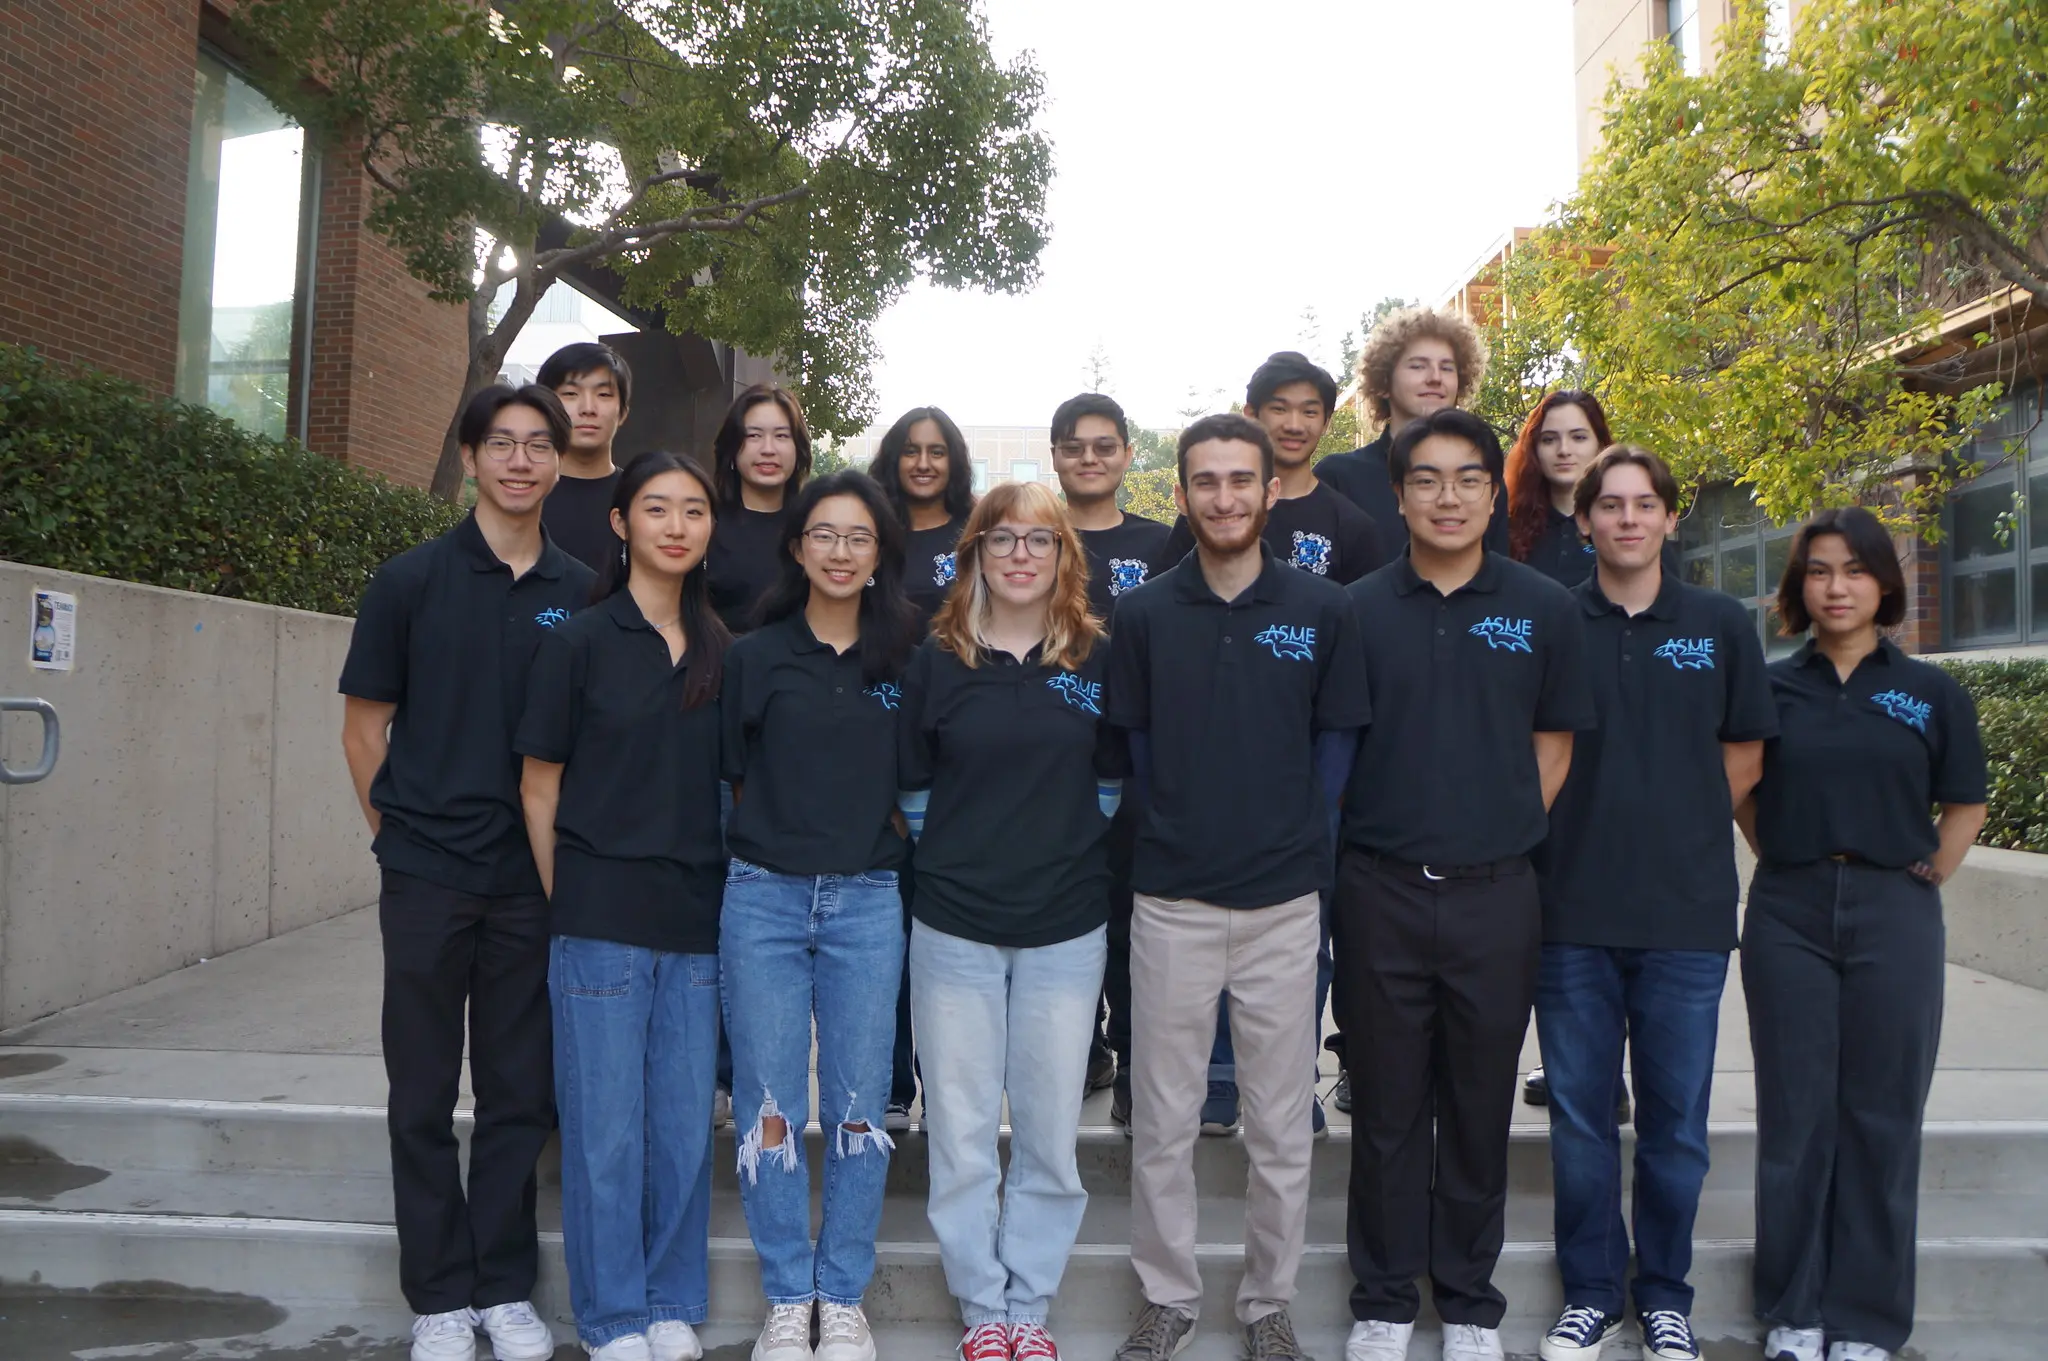
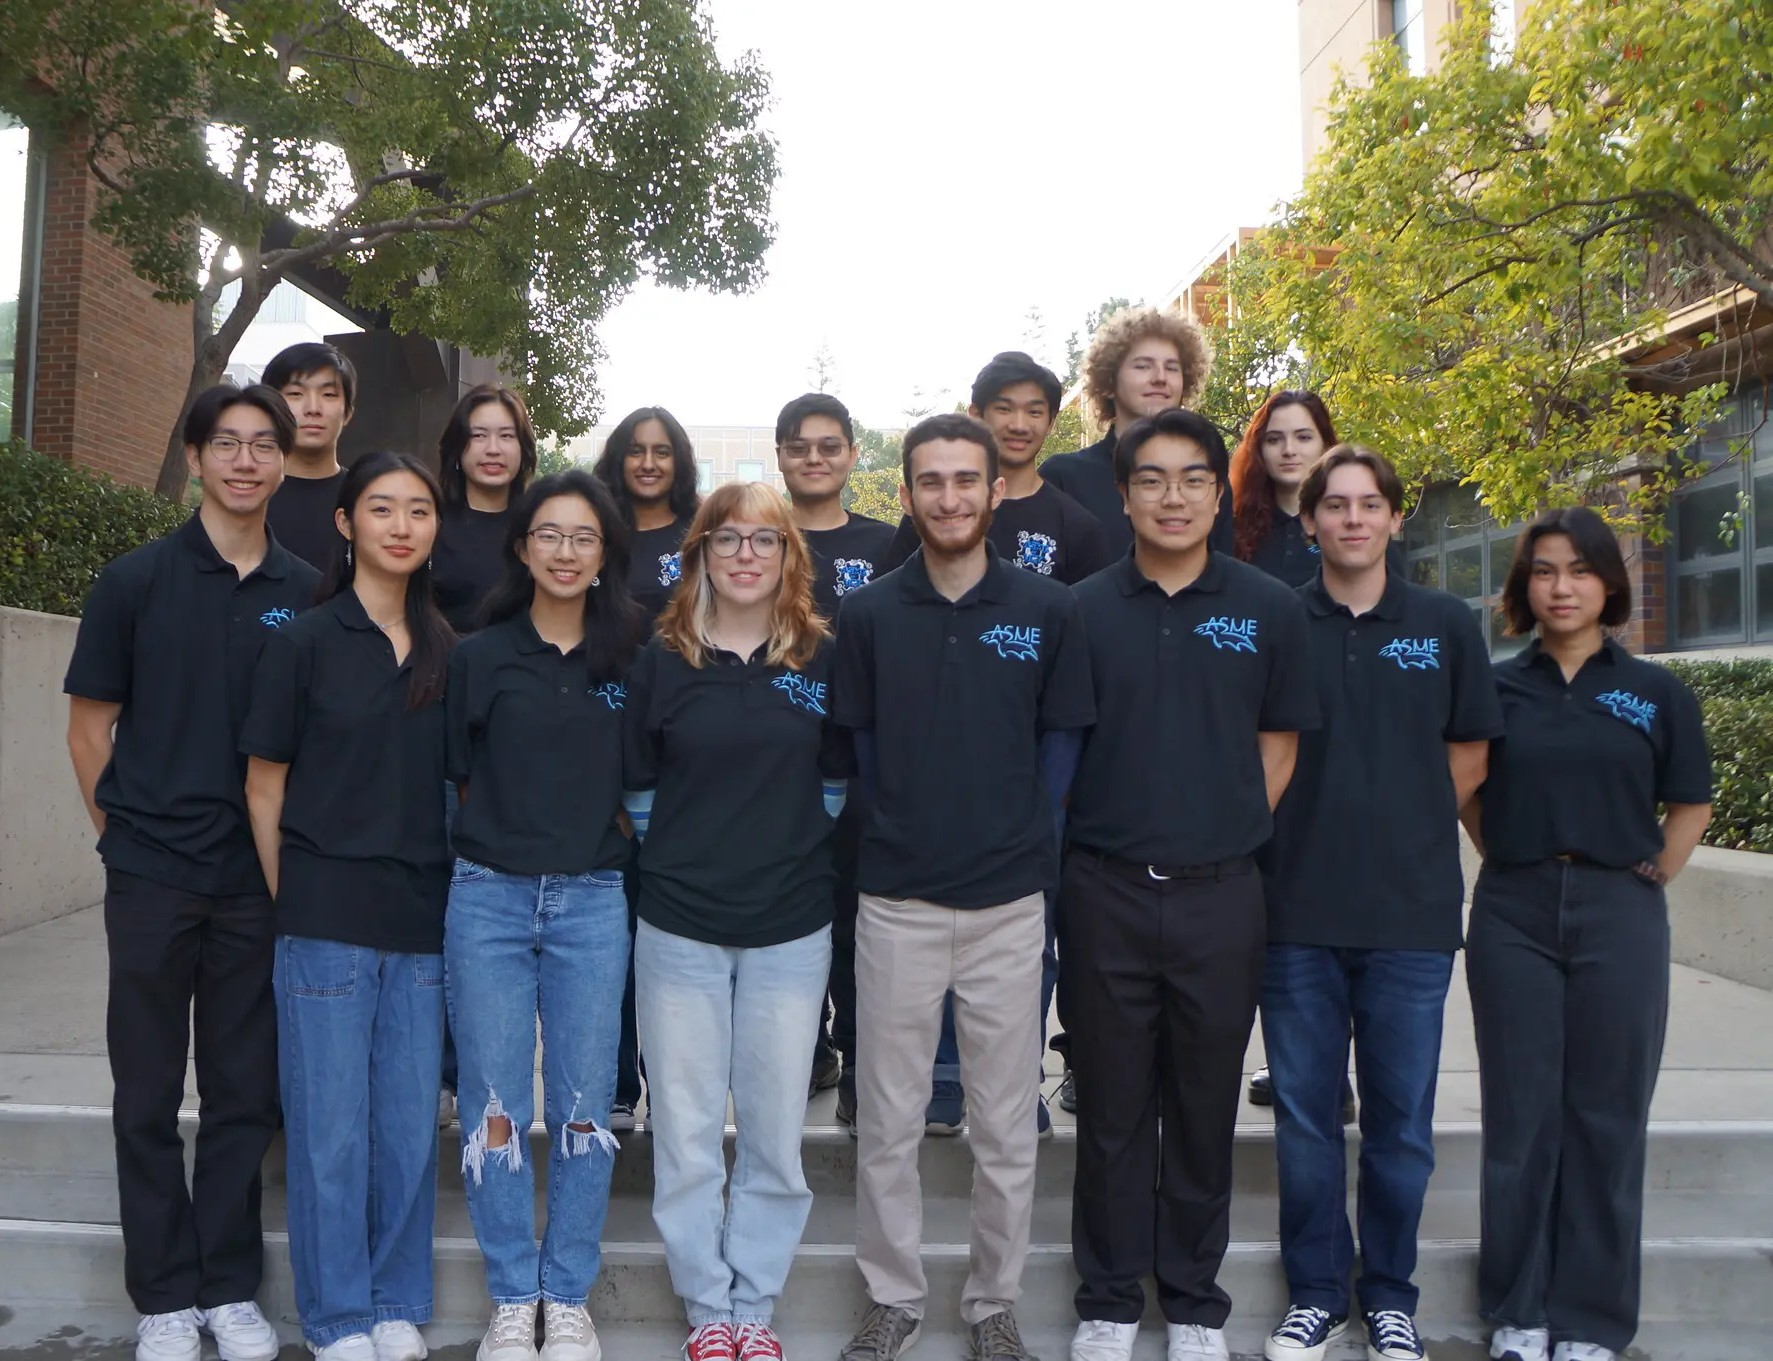
QOL changes

diff --git a/asme-website/src/components/Navbar.tsx b/asme-website/src/components/Navbar.tsx
@@ -17,8 +17,8 @@ function Navbar() {
                 </NavigationMenuLink>
               </NavigationMenuItem>
 
-              {/* Dynamic Links (Events, Yearbook, Links) */}
-              {["Events", "Sponsors", "Links", "Board"].map((label) => (
+              {/* Dynamic Links (Posts, Yearbook, Links) */}
+              {["Posts", "Sponsors", "Links", "Board"].map((label) => (
                 <NavigationMenuItem key={label}>
                   <NavigationMenuLink 
                     asChild 
@@ -31,27 +31,14 @@ function Navbar() {
                 </NavigationMenuItem>
               ))}
 
-            {/* Programs Link w/ dropdown */}
+
+            {/* Flagship Link w/ dropdown */}
               <NavigationMenuItem>
                 <NavigationMenuTrigger className="justify-end ml-auto bg-transparent hover:bg-gray-200 data-[state=open]:bg-gray-100 rounded-full font-nunito text-sm text-gray-800 transition-colors">
-                  Programs
+                  Flagship
                 </NavigationMenuTrigger>
                 <NavigationMenuContent className="">
                   <ul className="grid w-[180px] gap-1 p-2 bg-white rounded-xl ">
-                    <li>
-                      <NavigationMenuLink asChild className = "">
-                        <Link to="/peterworks" className="block p-2 text-lg hover:bg-gray-200 rounded-md transition-colors text-gray-700 ">
-                          Peterworks
-                        </Link>
-                      </NavigationMenuLink>
-                    </li>
-                    <li>
-                      <NavigationMenuLink asChild className = "">
-                        <Link to="/minimechs" className="block p-2 text-lg hover:bg-gray-200 rounded-md transition-colors text-gray-700 ">
-                          MiniMechs
-                        </Link>
-                      </NavigationMenuLink>
-                    </li>
                     <li>
                       <NavigationMenuLink asChild className = "">
                         <Link to="/network" className="block p-2 text-lg hover:bg-gray-200 rounded-md transition-colors text-gray-700 ">
@@ -70,6 +57,30 @@ function Navbar() {
                       <NavigationMenuLink asChild className = "">
                         <Link to="/SDNN" className="block p-2 text-lg hover:bg-gray-200 rounded-md transition-colors text-gray-700 ">
                           SDNN
+                        </Link>
+                      </NavigationMenuLink>
+                    </li>
+                  </ul>
+                </NavigationMenuContent>
+              </NavigationMenuItem>
+            {/* Programs Link w/ dropdown */}
+              <NavigationMenuItem>
+                <NavigationMenuTrigger className="justify-end ml-auto bg-transparent hover:bg-gray-200 data-[state=open]:bg-gray-100 rounded-full font-nunito text-sm text-gray-800 transition-colors">
+                  Programs
+                </NavigationMenuTrigger>
+                <NavigationMenuContent className="">
+                  <ul className="grid w-[180px] gap-1 p-2 bg-white rounded-xl ">
+                    <li>
+                      <NavigationMenuLink asChild className = "">
+                        <Link to="/peterworks" className="block p-2 text-lg hover:bg-gray-200 rounded-md transition-colors text-gray-700 ">
+                          Peterworks
+                        </Link>
+                      </NavigationMenuLink>
+                    </li>
+                    <li>
+                      <NavigationMenuLink asChild className = "">
+                        <Link to="/minimechs" className="block p-2 text-lg hover:bg-gray-200 rounded-md transition-colors text-gray-700 ">
+                          MiniMechs
                         </Link>
                       </NavigationMenuLink>
                     </li>

diff --git a/asme-website/src/components/MobileNavbar.tsx b/asme-website/src/components/MobileNavbar.tsx
@@ -69,7 +69,7 @@ function MobileNavbar() {
                         <Link to="/" onClick={() => setIsOpen(false)} className="hover:text-gray-500 block pb-4">Home</Link>
                     </li>
                     <li className={`transform transition-all duration-500 delay-300 ${isOpen ? "translate-y-0 opacity-100" : "translate-y-4 opacity-0"}`}>
-                        <Link to="/events" onClick={() => setIsOpen(false)} className="hover:text-gray-500 block pb-4">Events</Link>
+                        <Link to="/posts" onClick={() => setIsOpen(false)} className="hover:text-gray-500 block pb-4">Posts</Link>
                     </li>
                      <li className={`transform transition-all duration-500 delay-[400ms] ${isOpen ? "translate-y-0 opacity-100" : "translate-y-4 opacity-0"}`}>
                         <Link to="/sponsors" onClick={() => setIsOpen(false)} className="hover:text-gray-500 block pb-4">Sponsors</Link>
@@ -80,12 +80,6 @@ function MobileNavbar() {
                     <li className={`transform transition-all duration-500 delay-[250ms] ${isOpen ? "translate-y-0 opacity-100" : "translate-y-4 opacity-0"}`}>
                         <Link to="/board" onClick={() => setIsOpen(false)} className="hover:text-gray-500 block pb-4">Board</Link>
                     </li>
-                    <li className={`transform transition-all duration-500 delay-[400ms] ${isOpen ? "translate-y-0 opacity-100" : "translate-y-4 opacity-0"}`}>
-                        <Link to="/minimechs" onClick={() => setIsOpen(false)} className="hover:text-gray-500 block pb-4">MiniMechs</Link>
-                    </li>
-                    <li className={`transform transition-all duration-500 delay-200 ${isOpen ? "translate-y-0 opacity-100" : "translate-y-4 opacity-0"}`}>
-                        <Link to="/peterworks" onClick={() => setIsOpen(false)} className="hover:text-gray-500 block pb-4">Peterworks</Link>
-                    </li>
                     <li className={`transform transition-all duration-500 delay-200 ${isOpen ? "translate-y-0 opacity-100" : "translate-y-4 opacity-0"}`}>
                         <Link to="/Network" onClick={() => setIsOpen(false)} className="hover:text-gray-500 block pb-4">Network With ASME</Link>
                     </li>
@@ -94,6 +88,12 @@ function MobileNavbar() {
                     </li>
                     <li className={`transform transition-all duration-500 delay-200 ${isOpen ? "translate-y-0 opacity-100" : "translate-y-4 opacity-0"}`}>
                         <Link to="/SDNN" onClick={() => setIsOpen(false)} className="hover:text-gray-500 block pb-4">SDNN</Link>
+                    </li>
+                    <li className={`transform transition-all duration-500 delay-[400ms] ${isOpen ? "translate-y-0 opacity-100" : "translate-y-4 opacity-0"}`}>
+                        <Link to="/minimechs" onClick={() => setIsOpen(false)} className="hover:text-gray-500 block pb-4">MiniMechs</Link>
+                    </li>
+                    <li className={`transform transition-all duration-500 delay-200 ${isOpen ? "translate-y-0 opacity-100" : "translate-y-4 opacity-0"}`}>
+                        <Link to="/peterworks" onClick={() => setIsOpen(false)} className="hover:text-gray-500 block pb-4">Peterworks</Link>
                     </li>
                     <li className={`transform transition-all duration-500 delay-[350ms] ${isOpen ? "translate-y-0 opacity-100" : "translate-y-4 opacity-0"}`}>
                         <Link to="/yearbook" onClick={() => setIsOpen(false)} className="hover:text-gray-500 block pb-4">Yearbook</Link>

diff --git a/asme-website/src/App.tsx b/asme-website/src/App.tsx
@@ -5,7 +5,7 @@ import Links from './pages/Links';
 import asmegif from '@/assets/site/loading.gif';
 import Board from './pages/Board';
 import Peterworks from './pages/Peterworks';
-import Events from './pages/Events';
+import Posts from './pages/Posts';
 import Yearbook from './pages/Yearbook';
 import YearbookSection from './pages/YearbookSection';
 import Sponsors from './pages/Sponsors';
@@ -121,7 +121,7 @@ export default function App() {
             <Route path="/" element={<FrontPage />} />
             <Route path="/links" element={<Links />} />
             <Route path="/board" element={<Board/> } />
-            <Route path="/events" element={<Events />} />
+            <Route path="/posts" element={<Posts />} />
             <Route path="/yearbook" element={<Yearbook />} />
             <Route path="/yearbook/:section" element={<YearbookSection />} />
             <Route path="/peterworks" element={<Peterworks />} />

diff --git a/asme-website/src/model/BoardMembers2026_2027.ts b/asme-website/src/model/BoardMembers2026_2027.ts
@@ -91,7 +91,7 @@ const boardCommittees2026_2027: BoardCommittee[] = [
     members: [
       { name: "Katie Schmitz", role: "Student Outreach Director ", image: placeholderHeadshot, linkedin: "https://www.linkedin.com/in/katie-schmitz-893308331/" },
       { name: "Colin Tang Khoang", role: "Committee Member", image: placeholderHeadshot, linkedin: "https://www.linkedin.com/in/colin-khoang-10b933366/" },
-      { name: "Sarah McClelland", role: "Committee Member", image: placeholderHeadshot, linkedin: "https://www.linkedin.com/in/sarahrmcclelland/" },
+      { name: "Sarah McClelIand", role: "Committee Member", image: placeholderHeadshot, linkedin: "https://www.linkedin.com/in/sarahrmcclelland/" },
     ],
   },
   {

diff --git a/asme-website/src/pages/Posts.tsx b/asme-website/src/pages/Posts.tsx
@@ -3,9 +3,11 @@ import Section from "../components/Section";
 import { Reveal } from "../components/Reveal";
 
 const postLinks = [
+  "https://www.instagram.com/p/DdPS-9RK0sf/",
   "https://www.instagram.com/p/DcZx5jBBSDY/",
   "https://www.instagram.com/p/DbcaQ7QlE5t/",
   "https://www.instagram.com/p/DZN6snwSiWd/",
+  
 
 ];
 
@@ -36,7 +38,7 @@ function toEmbedUrl(postUrl: string) {
   return `${postUrl.replace(/\/$/, "")}/embed`;
 }
 
-function Events() {
+function Posts() {
   return (
     <Layout>
       {/* Title */}
@@ -146,4 +148,4 @@ function Events() {
   );
 }
 
-export default Events;
+export default Posts;

diff --git a/asme-website/src/FrontPage.tsx b/asme-website/src/FrontPage.tsx
@@ -24,7 +24,7 @@ interface EventItem {
 const eventsData: EventItem[] = [
     {
     title: "Network with ASME",
-    date: "October 21st, 2026",
+    date: "October 21st 5-8:30PM ",
     description: "Banquet-style dinner networking event where company representatives are invited to talk to students and give them insights on their journey, life at X company, etc! Attendees included Northrop Grumman, ANSYS, Parker Aerospace, Johnson and Johnson, etc",
     image: network,
     tag: "Event",

diff --git a/asme-website/src/pages/Peterworks.tsx b/asme-website/src/pages/Peterworks.tsx
@@ -90,6 +90,14 @@ function Peterworks() {
               />
             </a>
           </div>
+
+          <div className="mt-10 flex justify-center">
+            <img
+              src="/drone.webp"
+              alt="Student drone"
+              className="aspect-square w-full max-w-xl rounded-lg object-cover object-center"
+            />
+          </div>
         </Section>
       </div>
     </Layout>
